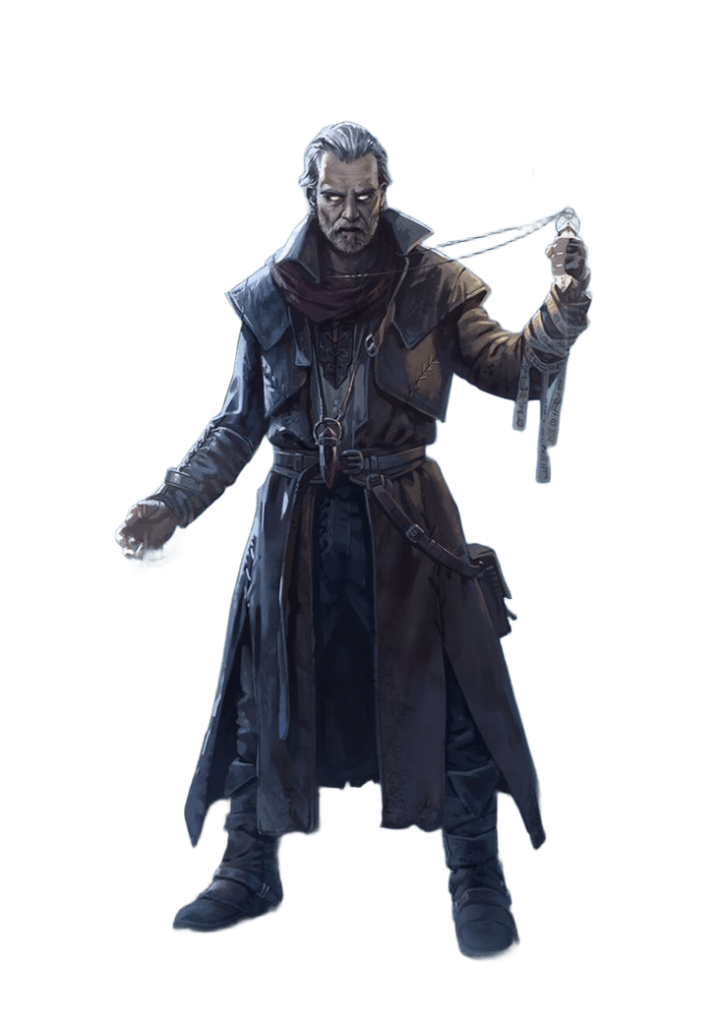
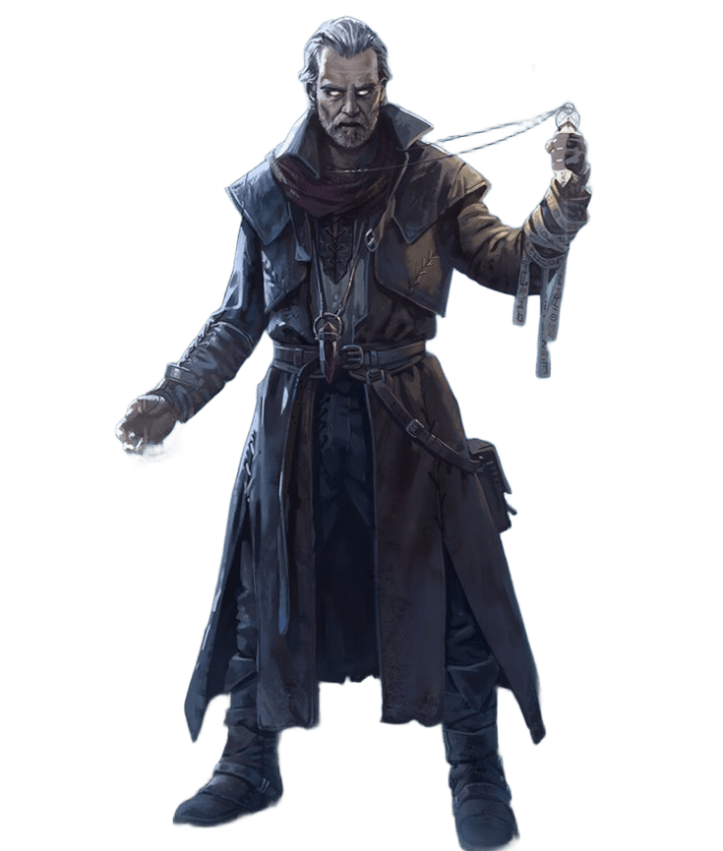
feat: add subclass assets and detail page view

diff --git a/src/app/subclasses/[id]/page.tsx b/src/app/subclasses/[id]/page.tsx
@@ -104,6 +104,14 @@ const SUBCLASS_IMAGES: Record<string, string> = {
   'Caminho da Sombra': '/assets/subclasses/caminho-da-sombra.png',
   'Caminho das Sombras': '/assets/subclasses/caminho-da-sombra.png',
   'Caminho dos Quatro Elementos': '/assets/subclasses/caminho-dos-quatro-elementos.png',
+  'Ordem do Caçador de Espectros': '/assets/subclasses/ordem-do-cacador-de-espectros.png',
+  'Caçador de Espectros': '/assets/subclasses/ordem-do-cacador-de-espectros.png',
+  'Ordem do Licantropo': '/assets/subclasses/ordem-do-licantropo.png',
+  'Licantropo': '/assets/subclasses/ordem-do-licantropo.png',
+  'Ordem do Mutante': '/assets/subclasses/ordem-do-mutante.png',
+  'Mutante': '/assets/subclasses/ordem-do-mutante.png',
+  'Ordem da Alma Profana': '/assets/subclasses/ordem-da-alma-profana.png',
+  'Alma Profana': '/assets/subclasses/ordem-da-alma-profana.png',
 }
 
 // Fallback para ilustrações oficiais de classe quando a subclasse não tem imagem própria
@@ -294,7 +302,10 @@ export default function SubclassDetailsPage({ params }: PageProps) {
         .header-image {
           width: 100%;
           height: 100%;
-          object-fit: contain;
+          object-fit: cover;
+          object-position: top center;
+          transform: scale(1.15);
+          transform-origin: top center;
         }
       `}</style>
 

diff --git a/src/app/subclasses/page.tsx b/src/app/subclasses/page.tsx
@@ -104,6 +104,14 @@ const SUBCLASS_IMAGES: Record<string, string> = {
   'Caminho da Sombra': '/assets/subclasses/caminho-da-sombra.png',
   'Caminho das Sombras': '/assets/subclasses/caminho-da-sombra.png',
   'Caminho dos Quatro Elementos': '/assets/subclasses/caminho-dos-quatro-elementos.png',
+  'Ordem do Caçador de Espectros': '/assets/subclasses/ordem-do-cacador-de-espectros.png',
+  'Caçador de Espectros': '/assets/subclasses/ordem-do-cacador-de-espectros.png',
+  'Ordem do Licantropo': '/assets/subclasses/ordem-do-licantropo.png',
+  'Licantropo': '/assets/subclasses/ordem-do-licantropo.png',
+  'Ordem do Mutante': '/assets/subclasses/ordem-do-mutante.png',
+  'Mutante': '/assets/subclasses/ordem-do-mutante.png',
+  'Ordem da Alma Profana': '/assets/subclasses/ordem-da-alma-profana.png',
+  'Alma Profana': '/assets/subclasses/ordem-da-alma-profana.png',
 }
 
 // Fallback para ilustrações oficiais de classe quando a subclasse não tem imagem própria
